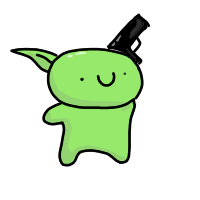
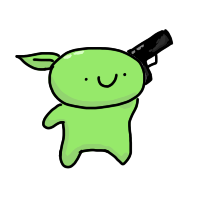
added entity base

Changed region(s): [[0.03, 0.06, 0.87, 0.87], [0.48, 0.36, 0.63, 0.45], [0.39, 0.39, 0.45, 0.42]]

diff --git a/Classes/Allies/PeaShooter.py b/Classes/Allies/PeaShooter.py
@@ -1,39 +1,31 @@
 import pygame, Global
 from Classes.Behavior.Shoot import Shoot
+from Classes.EntityBase import BaseEntity
 from Utils.Game.AnimationHandler import AnimationTrack, Animator
-from Classes.Projectiles.Bullet import Bullet
 
-class PeaShooter(pygame.sprite.Sprite):
+class PeaShooter(BaseEntity):
     def __init__(self, screen, position: pygame.Vector2, bulletGroup):
-        super().__init__()
-        # self.image = pygame.image.load("Assets/Allies/owo.png").convert_alpha()
-        # self.image = pygame.transform.scale(self.image, (120, 130))
-        self.size = pygame.Vector2(150, 160)
-        self.IdleAnim = AnimationTrack(self, "Assets/Allies/PeaShooter/Idle", self.size, 5, Global.animationFPS, True, 1)
-        self.ShootAnim = AnimationTrack(self, "Assets/Allies/PeaShooter/Shoot", self.size, 7, Global.animationFPS, False, 2)
-        self.Animator = Animator()
-        self.Animator.playAnimation(self.IdleAnim)
+        super().__init__(position, pygame.Vector2(150, 160))
+        self.hp = 100
 
-        self.image = pygame.image.load("Assets/Allies/PeaShooter/Idle/frame0000.png").convert_alpha()
-        self.image = pygame.transform.scale(self.image, self.size)
-        self.rect = self.image.get_rect()
-        self.rect.center = position
+        self.IdleAnim = AnimationTrack(self, "Assets/Allies/PeaShooter/Idle", self.size, 5, Global.animationFPS, True, 1)
+        self.ShootAnim = AnimationTrack(self, "Assets/Allies/PeaShooter/Shoot", self.size, 6, Global.animationFPS, False, 2)
+        self.Animator.playAnimation(self.IdleAnim)
+        
         self.screen = screen
         self.bulletGroup = bulletGroup
 
         self.shootBehavior = Shoot(
             screen=self.screen, 
-            position=position + pygame.Vector2(20,-20),
+            position=position + pygame.Vector2(20,-30),
             animator=self.Animator, 
             shootAnim=self.ShootAnim,
             fireCoolDown=2,
             bulletGroup=self.bulletGroup, 
             bulletImage="Assets/Projectiles/Bullet/frame0000.png",
-            bulletSize=pygame.Vector2(70,60),
+            bulletSize=pygame.Vector2(80,70),
             bulletSpeed=200,
             )
-
-        self.hp = 100
         
     def update(self):
         self.shootBehavior.detectAndShoot()

diff --git a/Classes/EntityBase.py b/Classes/EntityBase.py
@@ -1,7 +1,39 @@
 import pygame
+from Utils.Game.AnimationHandler import Animator
 
-class SpriteBase(pygame.sprite.Sprite):
-    def __init__(self, pictureLink):
+class BaseEntity(pygame.sprite.Sprite):
+    def __init__(self, position: pygame.Vector2, size: pygame.Vector2):
         super().__init__()
-        self.image = pygame.image.load(pictureLink)
-        self.rect = self.image.get_rect()
+
+        self.size = size
+        self.position = pygame.Vector2(position)
+
+        # Default blank surfac
+        self.image = pygame.Surface(size, pygame.SRCALPHA)
+        self.rect = self.image.get_rect(center=self.position)
+
+        # Core systems
+        self.Animator = Animator()
+
+        # Stats
+        self.hp = 100
+        self.alive = True
+
+    def update(self):
+        if not self.alive:
+            return
+
+        self.Animator.update()
+        self._update_rect()
+
+    def _update_rect(self):
+        self.rect.center = self.position
+
+    def take_damage(self, amount):
+        self.hp -= amount
+        if self.hp <= 0:
+            self.die()
+
+    def die(self):
+        self.alive = False
+        self.kill()

diff --git a/Classes/Projectiles/Bullet.py b/Classes/Projectiles/Bullet.py
@@ -1,8 +1,13 @@
 import pygame, Global
+from Utils.Game.AnimationHandler import AnimationTrack, Animator
 
 class Bullet(pygame.sprite.Sprite):
     def __init__(self, position, direction: pygame.Vector2, speed, size, bulletImage, screen):
         super().__init__()
+        self.IdleAnim = AnimationTrack(self, "Assets/Projectiles/Bullet", size, 2, Global.animationFPS, True, 2)
+        self.Animator = Animator()
+        self.Animator.playAnimation(self.IdleAnim)
+
         self.image = pygame.image.load(bulletImage).convert_alpha()
         self.image = pygame.transform.scale(self.image, size)
         self.rect = self.image.get_rect()
@@ -15,6 +20,7 @@ class Bullet(pygame.sprite.Sprite):
     def update(self):
         self.pos += self.direction * self.speed * Global.dt
         self.rect.topleft = self.pos
+        self.Animator.update()
 
         if not self.screen.get_rect().colliderect(self.rect):
             self.kill()
